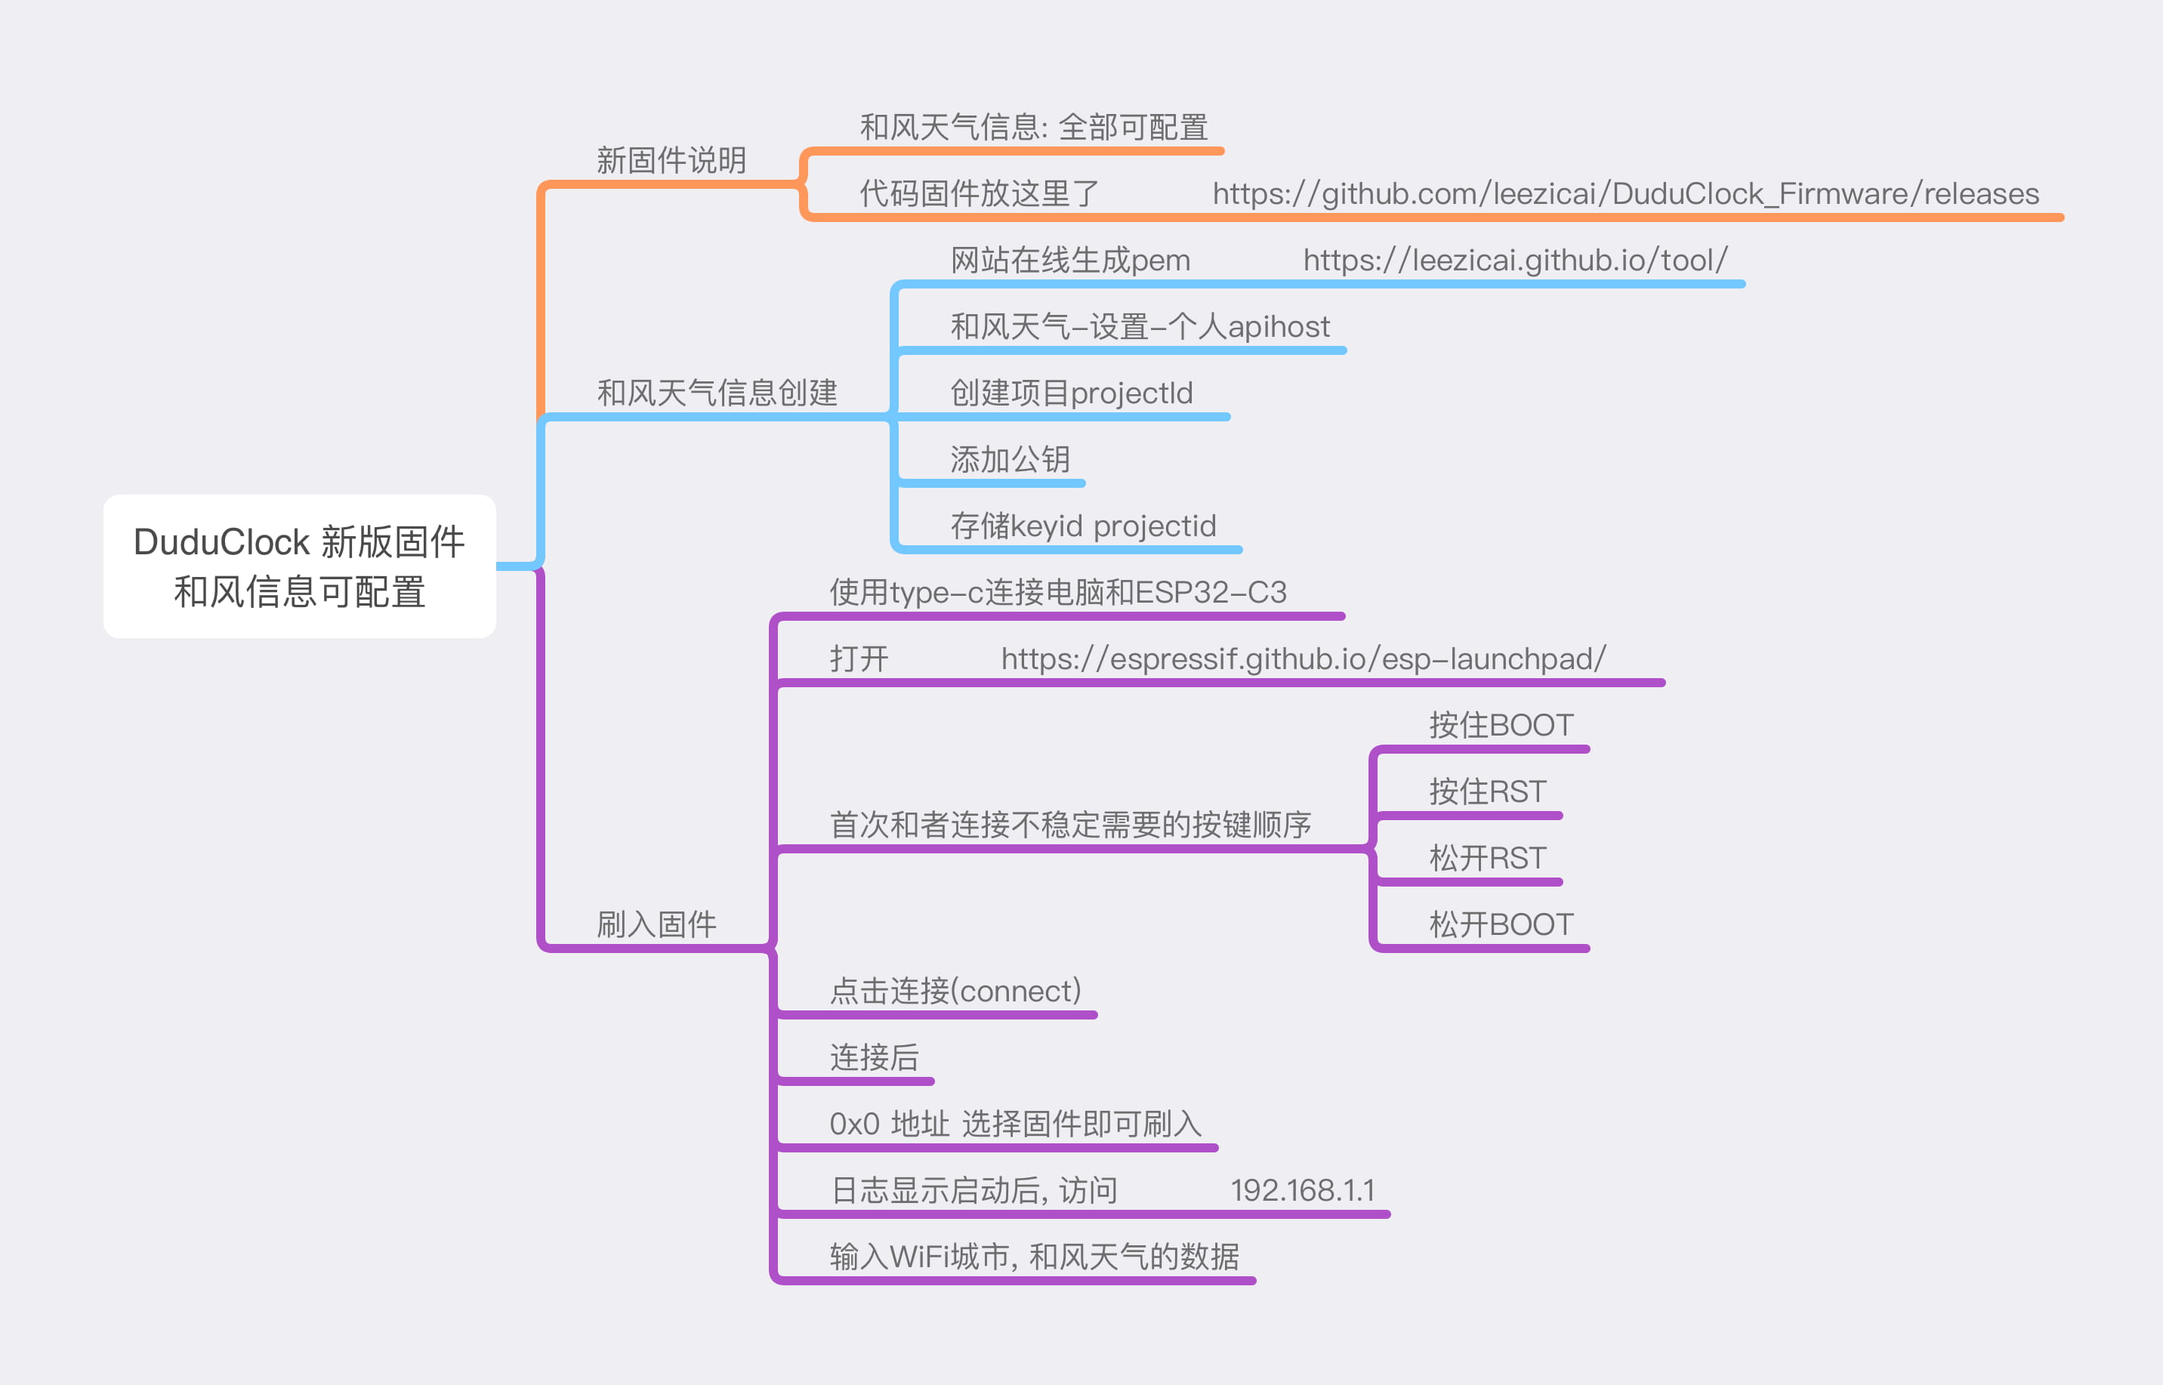
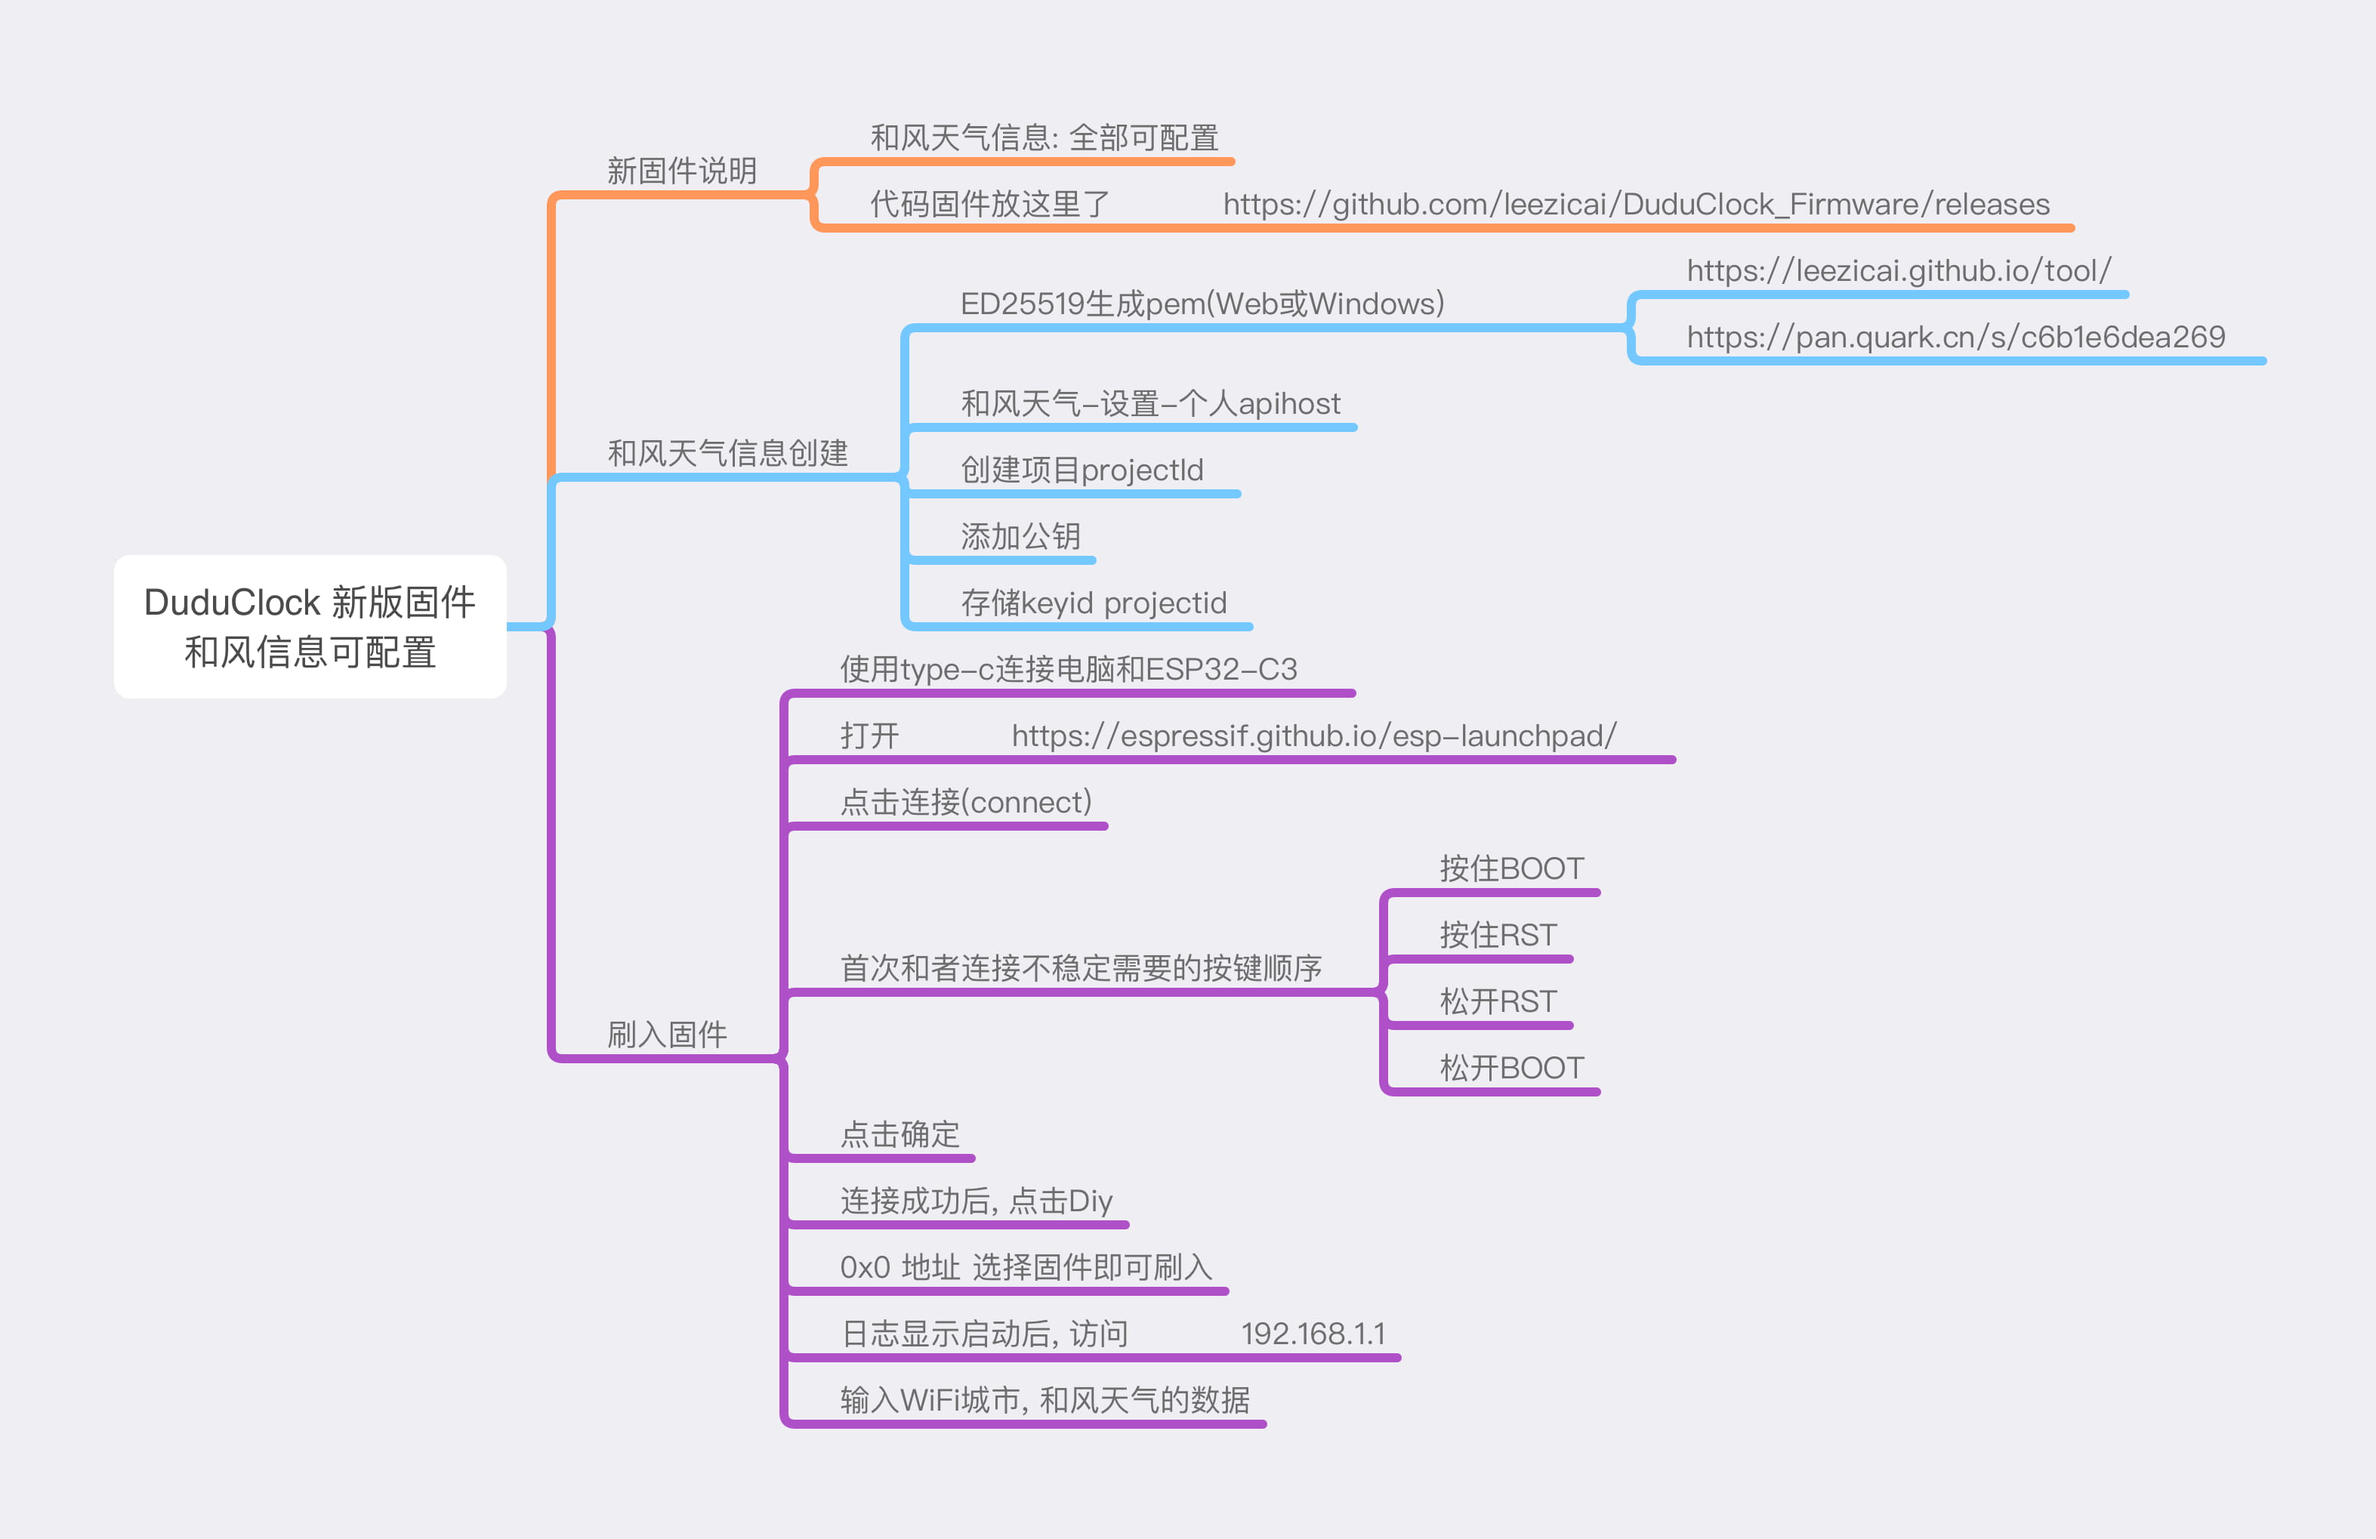
更新刷入固件文档

Changed region(s): [[0.0622, 0.0622, 0.9633, 0.9324]]

diff --git a/document/DuduClock-Firmware.md b/document/DuduClock-Firmware.md
@@ -10,8 +10,9 @@
 
 ## 和风天气信息创建
 
-### 网站在线生成pem
+### ED25519生成pem(Web或Windows)
 - https://leezicai.github.io/tool/
+- https://pan.quark.cn/s/c6b1e6dea269
 
 ### 和风天气-设置-个人apihost
 
@@ -28,15 +29,17 @@
 ### 打开
 - https://espressif.github.io/esp-launchpad/
 
+### 点击连接(connect)
+
 ### 首次和者连接不稳定需要的按键顺序
 - 按住BOOT
 - 按住RST
 - 松开RST
 - 松开BOOT
 
-### 点击连接(connect)
+### 点击确定
 
-### 连接后
+### 连接成功后, 点击Diy
 
 ### 0x0 地址 选择固件即可刷入
 
